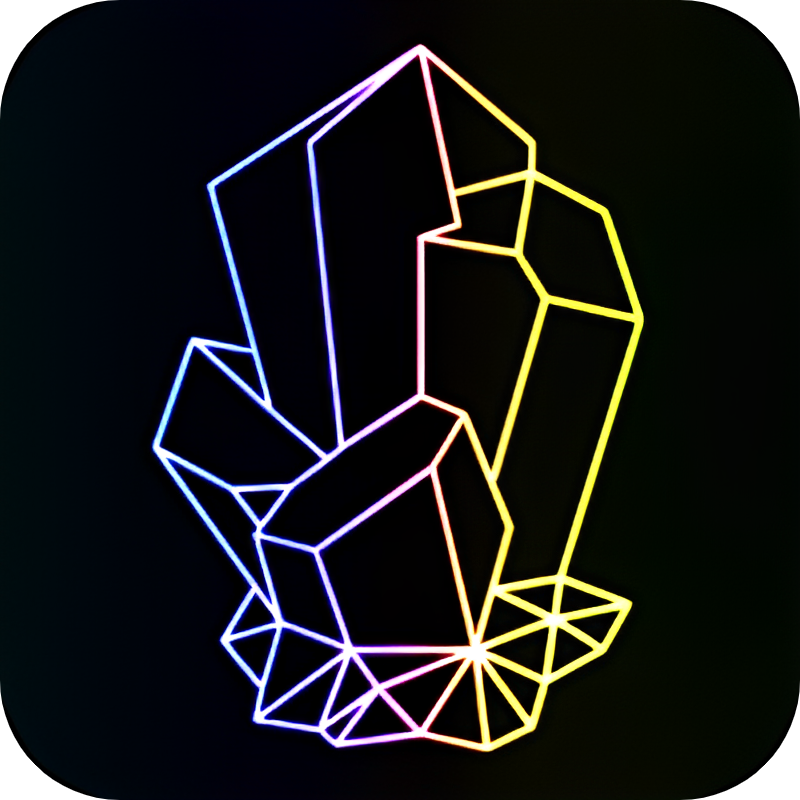
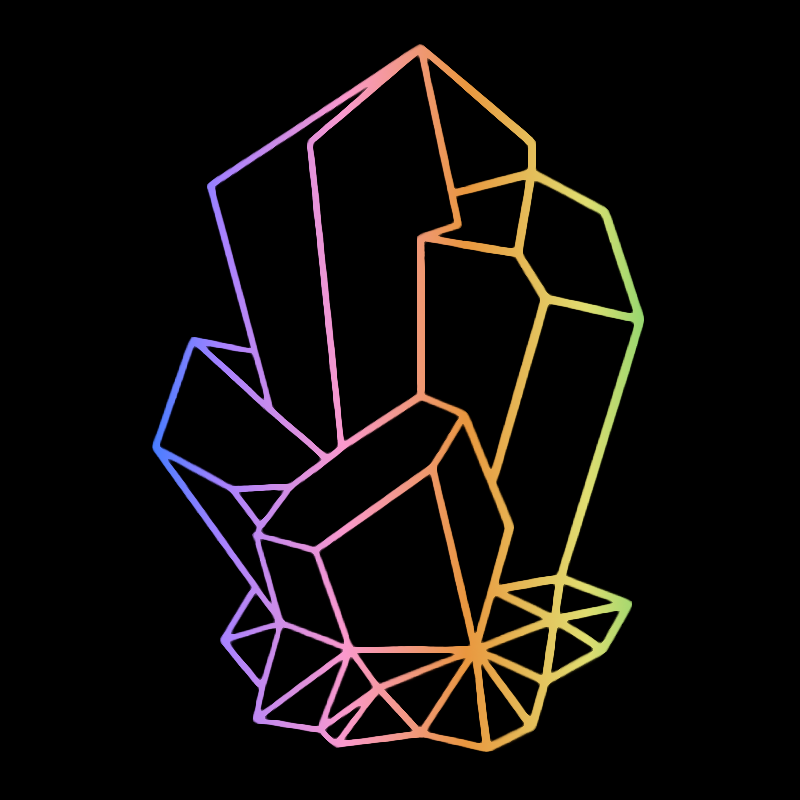
Updated README and images

diff --git a/convert.js b/convert.js
@@ -697,4 +697,6 @@ const compatibilityTable =
 
 // Write result to README.md
 replaceInFile(`./README.md`, "//COMPATIBILITY_TABLE", compatibilityTable)
+// Clean up comments
+replaceInFile(`./README.md`, /\<\!\-\-.*?\-\-\>/gms, "")
 console.log("Finished updating compatibility table")

diff --git a/README-TEMPLATE.md b/README-TEMPLATE.md
@@ -3,11 +3,11 @@
 A collection of [Obsidian](https://obsidian.md/) themes adapted for [Quartz](https://github.com/jackyzha0/quartz).
 
 <p align="center" width="100%">
-  <img src="media/social-preview.png" alt="Quartz Themes logo"/>
+  <img src="media/quartz-themes-800-wide-rounded.png" alt="Quartz Themes logo"/>
 </p>
-
+<!--
 _<sub>left to right: `vauxhaul`, `tokyo-night`, `its-theme`, `absolutegruv`, `sandstorm`, `obsidian-nord`</sub>_
-
+-->
 ![Last updated: 2024-10-05](<https://img.shields.io/date/1742985000?style=for-the-badge&label=Last Obsidian themes list fetch&labelColor=hsl(258%2C%2088%25%2C%2066%25)&color=444>)
 ![Supported Quartz version v4.5.0](<https://img.shields.io/badge/v4.5.0-Quartz?style=for-the-badge&label=Quartz%20version&labelColor=hsl(204%2C%2022%25%2C%2057%25)&color=444>)
 
@@ -213,5 +213,7 @@ npm run update
 | <img src="media/dark.svg" alt="DARK"/>   | Dark theme only           |
 
 </details>
-
+<!--
+Compatibility table is built from the settings in `themes.json`
+-->
 //COMPATIBILITY_TABLE

diff --git a/README.md b/README.md
@@ -3,10 +3,8 @@
 A collection of [Obsidian](https://obsidian.md/) themes adapted for [Quartz](https://github.com/jackyzha0/quartz).
 
 <p align="center" width="100%">
-  <img src="media/social-preview.png" alt="Quartz Themes logo"/>
+  <img src="media/quartz-themes-800-wide-rounded.png" alt="Quartz Themes logo"/>
 </p>
-
-_<sub>left to right: `vauxhaul`, `tokyo-night`, `its-theme`, `absolutegruv`, `sandstorm`, `obsidian-nord`</sub>_
 
 ![Last updated: 2024-10-05](<https://img.shields.io/date/1742985000?style=for-the-badge&label=Last Obsidian themes list fetch&labelColor=hsl(258%2C%2088%25%2C%2066%25)&color=444>)
 ![Supported Quartz version v4.5.0](<https://img.shields.io/badge/v4.5.0-Quartz?style=for-the-badge&label=Quartz%20version&labelColor=hsl(204%2C%2022%25%2C%2057%25)&color=444>)